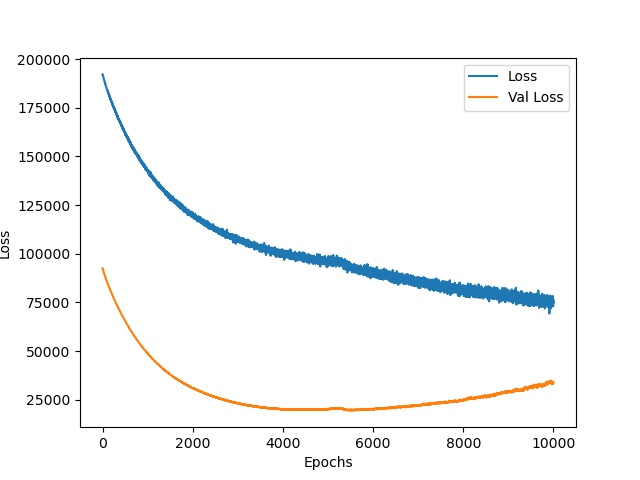
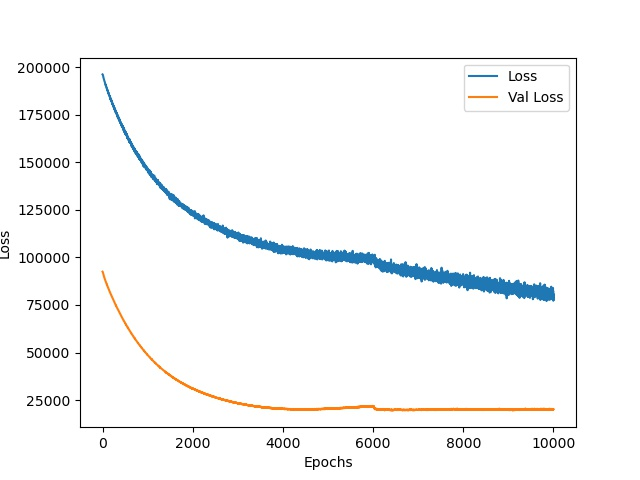
Update

diff --git a/prediction_for_lily_price_and_volume/test.py b/prediction_for_lily_price_and_volume/test.py
@@ -21,13 +21,13 @@ def new_x(predict, test_x, n, x_scaler):
 
 
 path_lastyear_year = r'D:\dataset\lilium_price\val_x\108all.csv'    #前一年的訓練資料
-path_weight = r'./weights/epoch10000-loss33934.8047-val_loss33840.2803.pth' #權重
+path_weight = r'./weights/epoch10000-loss17922.0117-val_loss20182.6402.pth' #權重
 sub_path = './results/test_flower_price.csv'    #submit格式
 path_result_csv = './results/109submit.csv'
 flower_name = ['FS443', 'FS479', 'FS592', 'FS609', 'FS639', 'FS779', 'FS859', 'FS879', 'FS899', 'FS929']    # 需與訓練時的處理順序相同
 cloumn = [ 'price_high', 'price_mid', 'price_avg', 'volume']    # 需與訓練時的處理順序相同
 
-n = 5  # 取前n天的資料作為特徵
+n = 20  # 取前n天的資料作為特徵
 f = 10  #花的種類數
 p = 4   #預測的價格數量
 
@@ -40,7 +40,7 @@ x_scaler = StandardScaler().fit(train_x)
 test_x = x_scaler.transform(test_x)
 test_x = torch.Tensor(test_x)  # to tensor
 
-model = model.RNN_model(input_dim=200, output_dim=40)
+model = model.RNN_model(input_dim=n*p*f, output_dim=p*f)
 model.load_state_dict(torch.load(path_weight))
 model.eval()
 

diff --git a/prediction_for_lily_price_and_volume/train.py b/prediction_for_lily_price_and_volume/train.py
@@ -21,8 +21,8 @@ if torch.cuda.is_available():
 else:
     device = torch.device('cpu')
 
-cloumn = [ '上價', '中價', '平均價', '交易量']
-n = 5  # 取前n天的資料作為特徵
+# cloumn = [ '上價', '中價', '平均價', '交易量']
+n = 20  # 取前n天的資料作為特徵
 
 #載入資料集
 train_x = pd.read_csv(r'D:\dataset\lilium_price\train_x\108all.csv', encoding='utf-8')
